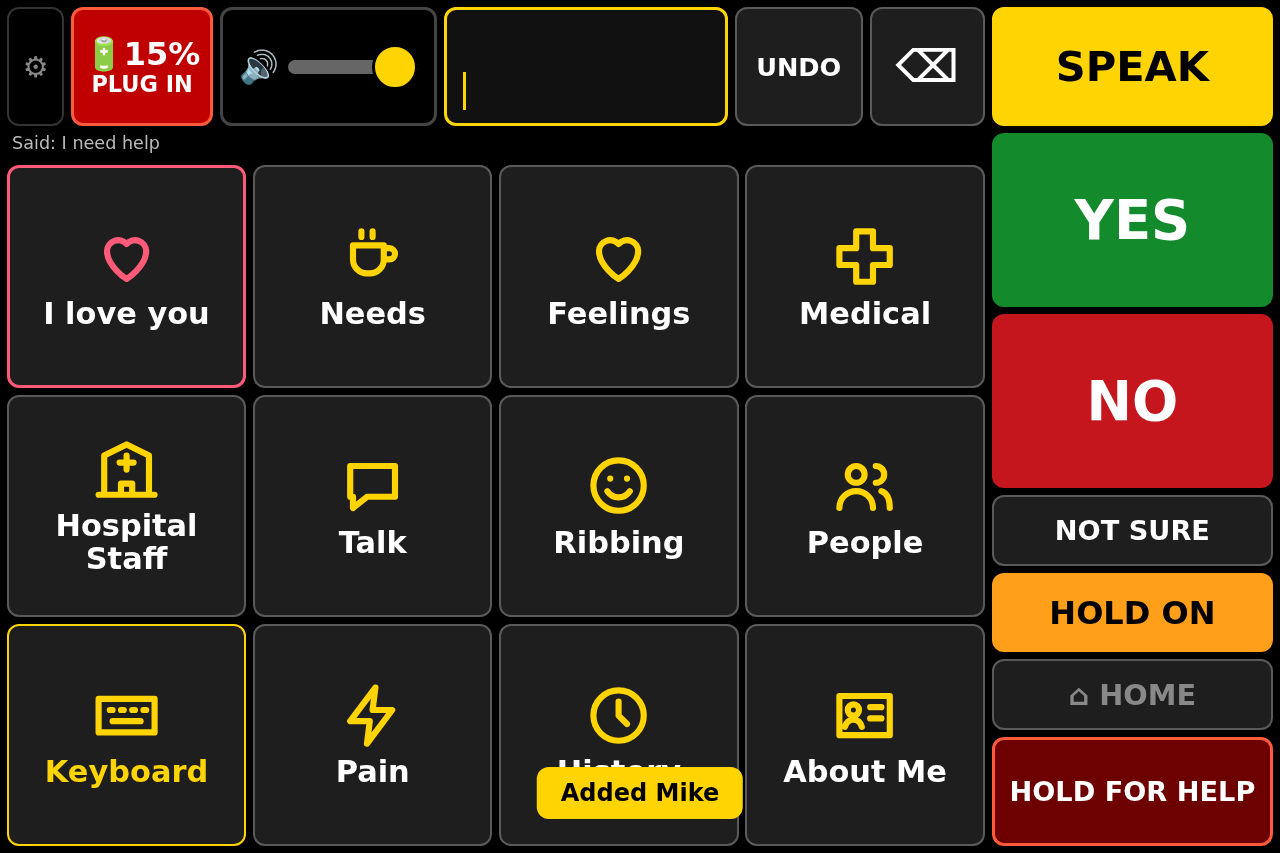
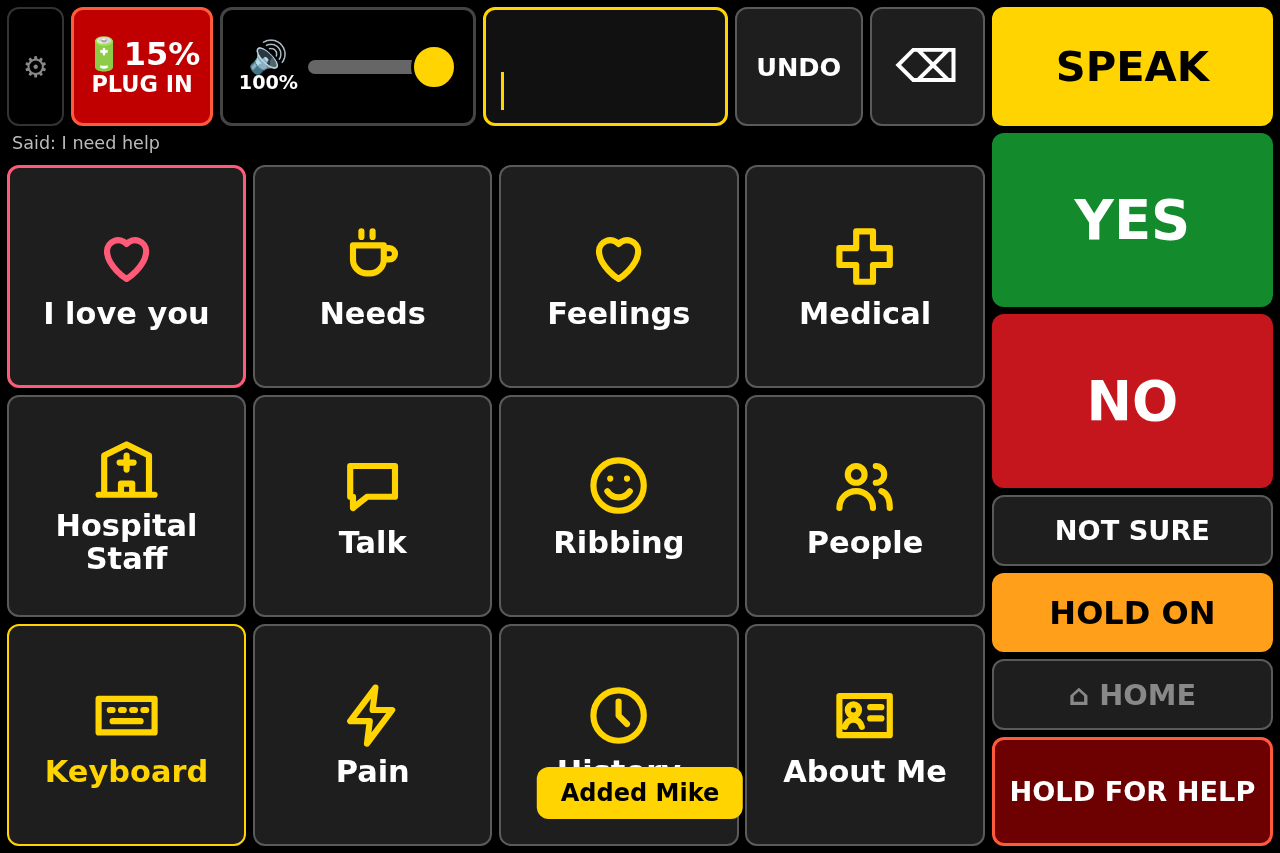
Round 4: power button tap = screen off/on only (powerkey.py reads KEY_POWER from /dev/input; kiosk loop leaves a darkened screen dark, clears the flag after a touch wake; install adds the input group), volume 50-100% with the % shown and a stray tap moving it at most 10 points, screen rotation locke

Changed region(s): [[0.2812, 0.0, 0.4062, 0.1524], [0.1875, 0.0305, 0.25, 0.1219]]

diff --git a/tests/ui_test.js b/tests/ui_test.js
@@ -227,23 +227,35 @@ const SHOTS = path.join(__dirname, "..", "screenshots");
     await page.waitForTimeout(1200); // let the save land
     await shot("10-right-side");
 
-    // volume slider: never under 30%, applied to the voice, kept after a reload
-    await page.$eval("#vol", (e) => { e.value = 50; e.dispatchEvent(new Event("input")); });
-    assert.strictEqual(await page.evaluate(() => D.settings.volume), 50);
-    await page.$eval("#vol", (e) => { e.value = 0; e.dispatchEvent(new Event("input")); });
-    assert.strictEqual(await page.$eval("#vol", (e) => Number(e.value)), 30, "slider goes below 30%");
-    await page.$eval("#vol", (e) => { e.value = 50; e.dispatchEvent(new Event("input")); });
-    await page.waitForTimeout(750);
-    await page.click("#yes");
-    await page.waitForFunction(() => audio && Math.abs(audio.volume - 0.5) < 0.01, null, { timeout: 5000 });
+    // volume slider: 50-100%, a % next to the speaker, a stray tap moves it at most 10 points, a drag goes all the way
+    const setVol = (v) => page.$eval("#vol", (e, v) => { for (let i = 0; i < 6; i++) { e.value = v; e.dispatchEvent(new Event("input")); } }, v);
+    const volNow = () => page.$eval("#vol", (e) => Number(e.value));
+    await setVol(100);
+    assert.strictEqual(await page.textContent("#volpct"), "100%");
     const vb = await page.locator("#vol").boundingBox();
     assert(vb.width > 120 && vb.height > 45, "volume slider too small for a shaky hand: " + JSON.stringify(vb));
+    await page.mouse.click(vb.x + 3, vb.y + vb.height / 2); // a stray tap at the very low end
+    assert.strictEqual(await volNow(), 90, "a single tap jumped more than 10 points");
+    assert.strictEqual(await page.textContent("#volpct"), "90%");
+    await page.mouse.move(vb.x + vb.width - 20, vb.y + vb.height / 2); // drag the knob all the way down
+    await page.mouse.down();
+    for (let x = vb.width - 20; x >= 0; x -= 8) await page.mouse.move(vb.x + x, vb.y + vb.height / 2);
+    await page.mouse.up();
+    assert.strictEqual(await volNow(), 50, "a drag did not reach the bottom (50%)");
+    await setVol(0);
+    assert.strictEqual(await volNow(), 50, "slider goes below 50%");
+    await setVol(70);
+    assert.strictEqual(await page.evaluate(() => D.settings.volume), 70);
+    await page.waitForTimeout(750);
+    await page.click("#yes");
+    await page.waitForFunction(() => audio && Math.abs(audio.volume - 0.7) < 0.01, null, { timeout: 5000 });
     await page.waitForTimeout(1200); // let the save land
 
     // reload: everything persisted
     await page.reload();
     await page.waitForSelector(".tiles button");
-    assert.strictEqual(await page.$eval("#vol", (e) => Number(e.value)), 50, "volume not kept");
+    assert.strictEqual(await page.$eval("#vol", (e) => Number(e.value)), 70, "volume not kept");
+    assert.strictEqual(await page.textContent("#volpct"), "70%");
     assert(await page.evaluate(() => document.body.classList.contains("side-right")), "side setting not kept");
     await tile("People");
     await pc(`.phrases button:text-is("${name}")`);

diff --git a/static/app.js b/static/app.js
@@ -73,9 +73,9 @@ let waitingFor = 0;
 // (Ryan, or Joe/Norman when one of those is chosen), even when a Kokoro voice is chosen for the buttons
 const FAST = ["en_US-ryan-medium", "en_US-joe-medium", "en_US-norman-medium"];
 const fastVoice = (v) => (FAST.includes(v) ? v : "en_US-ryan-medium");
-// his own volume, 30-100%: the system volume is kept at 100% by kiosk.sh, so this is the only control,
+// his own volume, 50-100%: the system volume is kept at 100% by kiosk.sh, so this is the only control,
 // and it can never go so low that he is silent by accident
-const vol = () => Math.min(100, Math.max(30, Number(settings().volume) || 100)) / 100;
+const vol = () => Math.min(100, Math.max(50, Number(settings().volume) || 100)) / 100;
 function fetchWav(text, voice) {
   const s = settings(), ctl = new AbortController();
   const t = setTimeout(() => ctl.abort(), CORE.has(text) ? 2000 : 20000);
@@ -751,6 +751,7 @@ function applySettings() {
   document.body.classList.toggle("side-right", D.settings.side === "right");
   document.body.classList.toggle("side-left", D.settings.side !== "right");
   $("#vol").value = Math.round(vol() * 100);
+  $("#volpct").textContent = Math.round(vol() * 100) + "%";
 }
 let toastT = null;
 function toast(t, bad) {
@@ -767,8 +768,13 @@ async function start() {
   $("#notsure").onclick = () => say("I'm not sure, ask me another way.");
   $("#holdon").onclick = () => say("Hold on, give me a minute.");
   holdButton($("#help"), 1000, helpAlarm);
+  // a stray tap or a palm on the bar moves it at most 10 points toward the touch; dragging the knob
+  // still goes all the way (each small step is under 10)
   $("#vol").oninput = () => {
-    const v = Math.max(30, Number($("#vol").value));
+    const was = Math.round(vol() * 100), want = Number($("#vol").value);
+    const v = Math.max(50, Math.min(100, was + Math.max(-10, Math.min(10, want - was))));
+    $("#vol").value = v;
+    $("#volpct").textContent = v + "%";
     if (audio) audio.volume = v / 100;
     if (D) { D.settings.volume = v; saveSoon(); }
   };

diff --git a/static/style.css b/static/style.css
@@ -29,7 +29,9 @@ input, textarea { -webkit-user-select: text; user-select: text; }
 .waiting #speak::after { content: "speaking\2026"; position: absolute; left: 0; right: 0; bottom: 0.3em; font-size: 1.1rem; animation: pulse 1s ease-in-out infinite; }
 @keyframes pulse { 50% { opacity: 0.25; } }
 /* his volume: a wide slider with a big thumb for a shaky left hand (30-100%) */
-#volbox { flex: 0 0 auto; width: 17vw; min-width: 170px; display: flex; align-items: center; gap: 0.3em; padding: 0 0.5em; font-size: 2rem; border: 3px solid #444; border-radius: 12px; }
+#volbox .volicon { display: flex; flex-direction: column; align-items: center; line-height: 1; }
+#volpct { font-size: 1.2rem; font-weight: bold; }
+#volbox { flex: 0 0 auto; width: 20vw; min-width: 220px; display: flex; align-items: center; gap: 0.3em; padding: 0 0.5em; font-size: 2rem; border: 3px solid #444; border-radius: 12px; }
 #vol { flex: 1; min-width: 0; height: 100%; margin: 0; -webkit-appearance: none; appearance: none; background: transparent; touch-action: none; }
 #vol::-webkit-slider-runnable-track { height: 14px; background: #666; border-radius: 7px; }
 #vol::-webkit-slider-thumb { -webkit-appearance: none; width: 46px; height: 46px; margin-top: -16px; border-radius: 50%; background: var(--accent); border: 3px solid #000; }

diff --git a/static/index.html b/static/index.html
@@ -13,7 +13,7 @@
     <button id="back" aria-label="Backspace">&#9003;</button>
     <button id="clear">CLEAR</button>
     <div id="msg" aria-live="polite"></div>
-    <label id="volbox" title="Volume"><span aria-hidden="true">&#128266;</span><input id="vol" type="range" min="30" max="100" step="5" value="100" aria-label="Volume"></label>
+    <label id="volbox" title="Volume"><span class="volicon"><span aria-hidden="true">&#128266;</span><span id="volpct">100%</span></span><input id="vol" type="range" min="50" max="100" step="5" value="100" aria-label="Volume"></label>
     <div id="battery" hidden></div>
     <button id="gear" class="hold gear" aria-label="Settings (hold 3 seconds)"><span class="fill"></span><span class="label">&#9881;</span></button>
   </div>

diff --git a/tests/test_server.py b/tests/test_server.py
@@ -775,6 +775,82 @@ class PackTest(unittest.TestCase):
         self.assertEqual(self.server.fetch_packs(self.root), ["Voice pack en_US-ryan-medium skipped: less than 1 GB free on the disk"])
 
 
+class PowerKeyTest(unittest.TestCase):
+    """powerkey.py with a fake input device (a FIFO of struct input_event records) and a fake xset."""
+
+    def setUp(self):
+        self.d = tempfile.mkdtemp(prefix="vbpower-")
+        self.bin = os.path.join(self.d, "bin")
+        os.makedirs(self.bin)
+        self.state = os.path.join(self.d, "monitor")
+        pathlib.Path(self.state).write_text("On")
+        pathlib.Path(self.bin, "xset").write_text(
+            '#!/bin/bash\necho "xset $*" >>"%s/xset.log"\n'
+            'case "$*" in "q") echo "  Monitor is $(cat %s)";; "dpms force off") echo Off >%s;; "dpms force on") echo On >%s;; esac\n'
+            % (self.d, self.state, self.state, self.state))
+        os.chmod(os.path.join(self.bin, "xset"), 0o755)
+        self.fifo = os.path.join(self.d, "event0")
+        os.mkfifo(self.fifo)
+        self.flag = os.path.join(self.d, "screen-dark")
+
+    def tearDown(self):
+        shutil.rmtree(self.d, ignore_errors=True)
+
+    def test_caps(self):
+        sys.path.insert(0, ROOT)
+        import powerkey
+        self.assertTrue(powerkey.has_power_key("8000 10000000000000 0"))  # a real "Power Button" device
+        self.assertFalse(powerkey.has_power_key("0"))
+        self.assertFalse(powerkey.has_power_key("fffffffffffffffe"))  # only keys 1-63
+
+    def test_press_toggles_the_screen_only(self):
+        import struct
+        env = dict(os.environ, PATH=self.bin + ":" + os.environ["PATH"], VOICEBOX_POWER_DEVICES=self.fifo)
+        p = subprocess.Popen([sys.executable, os.path.join(ROOT, "powerkey.py"), self.flag], env=env,
+                             stdout=subprocess.PIPE, stderr=subprocess.STDOUT, text=True)
+        ev = lambda typ, code, val: struct.pack("llHHi", 0, 0, typ, code, val)  # noqa: E731
+        with open(self.fifo, "wb", buffering=0) as w:
+            w.write(ev(1, 30, 1) + ev(0, 0, 0))  # the A key: nothing
+            time.sleep(0.3)
+            self.assertFalse(os.path.exists(self.flag))
+            w.write(ev(1, 116, 1) + ev(0, 0, 0) + ev(1, 116, 0))  # tap: press + release
+            time.sleep(0.5)
+            self.assertEqual(pathlib.Path(self.state).read_text().strip(), "Off")
+            self.assertTrue(os.path.exists(self.flag), "dark flag, so kiosk.sh leaves DPMS alone")
+            time.sleep(0.5)
+            w.write(ev(1, 116, 1) + ev(1, 116, 0))  # tap again: back on
+            time.sleep(0.5)
+            self.assertEqual(pathlib.Path(self.state).read_text().strip(), "On")
+            self.assertFalse(os.path.exists(self.flag))
+        p.wait(5)
+        log = pathlib.Path(self.d, "xset.log").read_text()
+        self.assertNotIn("xset s", log)  # nothing else is touched
+        self.assertIn("screen off", p.stdout.read())
+
+    def test_no_device_does_nothing(self):
+        env = dict(os.environ, PATH=self.bin + ":" + os.environ["PATH"], VOICEBOX_POWER_DEVICES=os.path.join(self.d, "missing"))
+        r = subprocess.run([sys.executable, os.path.join(ROOT, "powerkey.py"), self.flag], env=env, capture_output=True, text=True, timeout=10)
+        self.assertEqual(r.returncode, 0)
+        self.assertIn("input group", r.stdout)
+        self.assertFalse(os.path.exists(os.path.join(self.d, "xset.log")))
+
+    def test_kiosk_loop_leaves_a_dark_screen_dark(self):
+        """kiosk.sh's no_blank: skips xset while dark; clears the flag once a touch woke the screen."""
+        src = pathlib.Path(ROOT, "kiosk.sh").read_text()
+        fn = src[src.index("no_blank() {"):src.index("\n}\n", src.index("no_blank() {")) + 3]
+        script = 'DARK=%s\n%s\nno_blank\n' % (self.flag, fn)
+        env = dict(os.environ, PATH=self.bin + ":" + os.environ["PATH"])
+        open(self.flag, "w").close()
+        pathlib.Path(self.state).write_text("Off")
+        subprocess.run(["bash", "-c", script], env=env, check=True)
+        self.assertNotIn("xset s off", pathlib.Path(self.d, "xset.log").read_text(), "woke the dark screen")
+        self.assertTrue(os.path.exists(self.flag))
+        pathlib.Path(self.state).write_text("On")  # a touch woke it
+        subprocess.run(["bash", "-c", script], env=env, check=True)
+        self.assertFalse(os.path.exists(self.flag))
+        self.assertIn("xset s off -dpms s noblank", pathlib.Path(self.d, "xset.log").read_text())
+
+
 class InstallTest(unittest.TestCase):
     """install.sh re-run with every system tool faked (no sudo, no network): it keeps the working app
     as app.prev and writes update-pending BEFORE touching app/, and puts it back if its copy fails."""

diff --git a/powerkey.py b/powerkey.py
@@ -1,0 +1,114 @@
+#!/usr/bin/env python3
+"""VoiceBox power key: a tap on the power button turns the SCREEN off or on. Nothing else.
+
+The system ignores the power key (logind HandlePowerKey=ignore, Cinnamon button-power 'nothing'), so the
+Surface never shuts down or sleeps from a bump. kiosk.sh runs this in the session. It reads the key from
+/dev/input (the user must be in the "input" group; install.sh adds him, it works after the next login).
+  press, screen on  -> `xset dpms force off`, and write the dark flag (kiosk.sh then leaves DPMS alone)
+  press, screen off -> `xset dpms force on`, remove the flag
+A touch also wakes the screen (X does that by itself); kiosk.sh clears the flag when it sees that.
+If no power button can be opened it logs that and exits: VoiceBox is never affected.
+
+Usage: powerkey.py <dark flag file>   (VOICEBOX_POWER_DEVICES=/dev/input/eventN:... to pick devices)
+"""
+import glob
+import os
+import select
+import struct
+import subprocess
+import sys
+import time
+
+EV_KEY, KEY_POWER = 1, 116
+EVENT = struct.Struct("llHHi")  # struct input_event: timeval, type, code, value (64-bit Linux)
+
+
+def has_power_key(caps):
+    """caps: /sys/class/input/eventN/device/capabilities/key, hex words, most significant first."""
+    words = [int(w, 16) for w in caps.split()][::-1]
+    bits = struct.calcsize("l") * 8  # the kernel prints unsigned longs
+    i, b = divmod(KEY_POWER, bits)
+    return i < len(words) and bool(words[i] >> b & 1)
+
+
+def power_devices():
+    if os.environ.get("VOICEBOX_POWER_DEVICES"):
+        return os.environ["VOICEBOX_POWER_DEVICES"].split(":")
+    out = []
+    for cap in sorted(glob.glob("/sys/class/input/event*/device/capabilities/key")):
+        try:
+            with open(cap) as f:
+                if has_power_key(f.read()):
+                    out.append("/dev/input/" + cap.split("/")[4])
+        except OSError:
+            pass
+    return out
+
+
+def screen_is_off():
+    try:
+        q = subprocess.run(["xset", "q"], capture_output=True, text=True, timeout=5).stdout
+    except (OSError, subprocess.TimeoutExpired):
+        return False
+    return "Monitor is Off" in q or "Monitor is in Standby" in q or "Monitor is in Suspend" in q
+
+
+def toggle(flag):
+    if screen_is_off():
+        try:
+            os.remove(flag)
+        except OSError:
+            pass
+        subprocess.run(["xset", "dpms", "force", "on"], timeout=5)
+        log("screen on")
+    else:
+        open(flag, "w").close()  # first: kiosk.sh must not wake it up again
+        subprocess.run(["xset", "dpms", "force", "off"], timeout=5)
+        log("screen off")
+
+
+def log(msg):
+    print("%s powerkey: %s" % (time.strftime("%c"), msg), flush=True)
+
+
+def main():
+    flag = sys.argv[1]
+    fds = {}
+    for dev in power_devices():
+        try:
+            fds[os.open(dev, os.O_RDONLY | os.O_NONBLOCK)] = b""
+        except OSError as e:
+            log("cannot open %s (%s); is the user in the input group? (works after the next login)" % (dev, e.strerror))
+    if not fds:
+        log("no power button to listen to; the power key does nothing (the screen stays on)")
+        return
+    last = 0.0
+    while fds:
+        ready, _, _ = select.select(list(fds), [], [])
+        for fd in ready:
+            try:
+                data = os.read(fd, EVENT.size * 64)
+            except BlockingIOError:
+                continue
+            except OSError:
+                data = b""
+            if not data:
+                os.close(fd)
+                del fds[fd]
+                continue
+            buf = fds[fd] + data
+            n = len(buf) // EVENT.size * EVENT.size
+            fds[fd] = buf[n:]
+            for off in range(0, n, EVENT.size):
+                _, _, typ, code, value = EVENT.unpack_from(buf, off)
+                if typ == EV_KEY and code == KEY_POWER and value == 1 and time.time() - last > 0.7:
+                    last = time.time()  # one press, even if the button bounces
+                    try:
+                        toggle(flag)
+                    except (OSError, subprocess.TimeoutExpired) as e:
+                        log("could not switch the screen: %s" % e)
+    log("power button device closed")
+
+
+if __name__ == "__main__":
+    main()

diff --git a/server.py b/server.py
@@ -705,7 +705,7 @@ VOICES_URL = os.environ.get("VOICEBOX_VOICES_URL", "https://huggingface.co/rhass
 MAX_TARBALL = 20 * 1024 * 1024
 MAX_UNPACKED = 60 * 1024 * 1024
 MAX_VOICE = 300 * 1024 * 1024
-APP_FILES = ("server.py", "kiosk.sh", "kokoro_worker.py", "piper_worker.py", "static", "voices.txt")
+APP_FILES = ("server.py", "kiosk.sh", "kokoro_worker.py", "piper_worker.py", "powerkey.py", "static", "voices.txt")
 REQUIRED = ("server.py", "kiosk.sh", "static/index.html", "static/app.js")
 KOKORO_URL = "https://github.com/thewh1teagle/kokoro-onnx/releases/download/model-files-v1.0/"
 MAX_KOKORO = 400 * 1024 * 1024

diff --git a/README.md b/README.md
@@ -17,7 +17,7 @@ cd ~ && wget -qO- https://github.com/lostinthemcp/voicebox/archive/refs/heads/ma
 - **Down one side (left by default):** YES, NO, NOT SURE, **HOLD ON** (orange: says "Hold on, give me a
   minute."), HOME and HOLD FOR HELP.
   These are on every screen.
-- **Top bar:** a wide **volume slider** (🔊). Slide the yellow knob; it never goes below 30%, so he can't be
+- **Top bar:** a wide **volume slider** (🔊). Drag the yellow knob; the number shows the volume. It never goes below 50% and a stray tap moves it only a little, so he can't be
   silenced by accident (the HELP chime is always at least 80%). The tablet's own volume stays at 100%.
 - **Top corner, next to the gear:** the battery (for example 🔋87%⚡ while charging). Under 20% and not
   charging it turns red and says **PLUG IN**.
@@ -57,7 +57,13 @@ It is safe to run again, for example after copying in a newer version. Phrases a
 
 **Keep the Surface plugged in.** Sleep is turned off for the whole system (and the screen never dims
 or blanks), so it will run the battery down.
-Closing the Type Cover does not put it to sleep, and a bump on the power button does nothing. To shut down, exit to the desktop and use the menu. If the screen is ever stuck or blank, hold the power button for 10 seconds, then press it again: it starts back up into VoiceBox by itself.
+Closing the Type Cover does not put it to sleep, and turning the Surface on a bed table does not turn the screen sideways.
+
+**The power button:**
+- **Tap it:** only the screen goes dark. VoiceBox keeps running.
+- **Tap it again, or touch the screen:** the screen comes back, right where it was.
+- **Hold it 10 seconds:** the Surface turns fully off. **Press it once** to turn it on: it starts straight into VoiceBox.
+- To shut down normally, exit to the desktop and use the menu. If the screen is ever stuck, hold the power button for 10 seconds, then press it again.
 
 ## Settings (for family)
 
